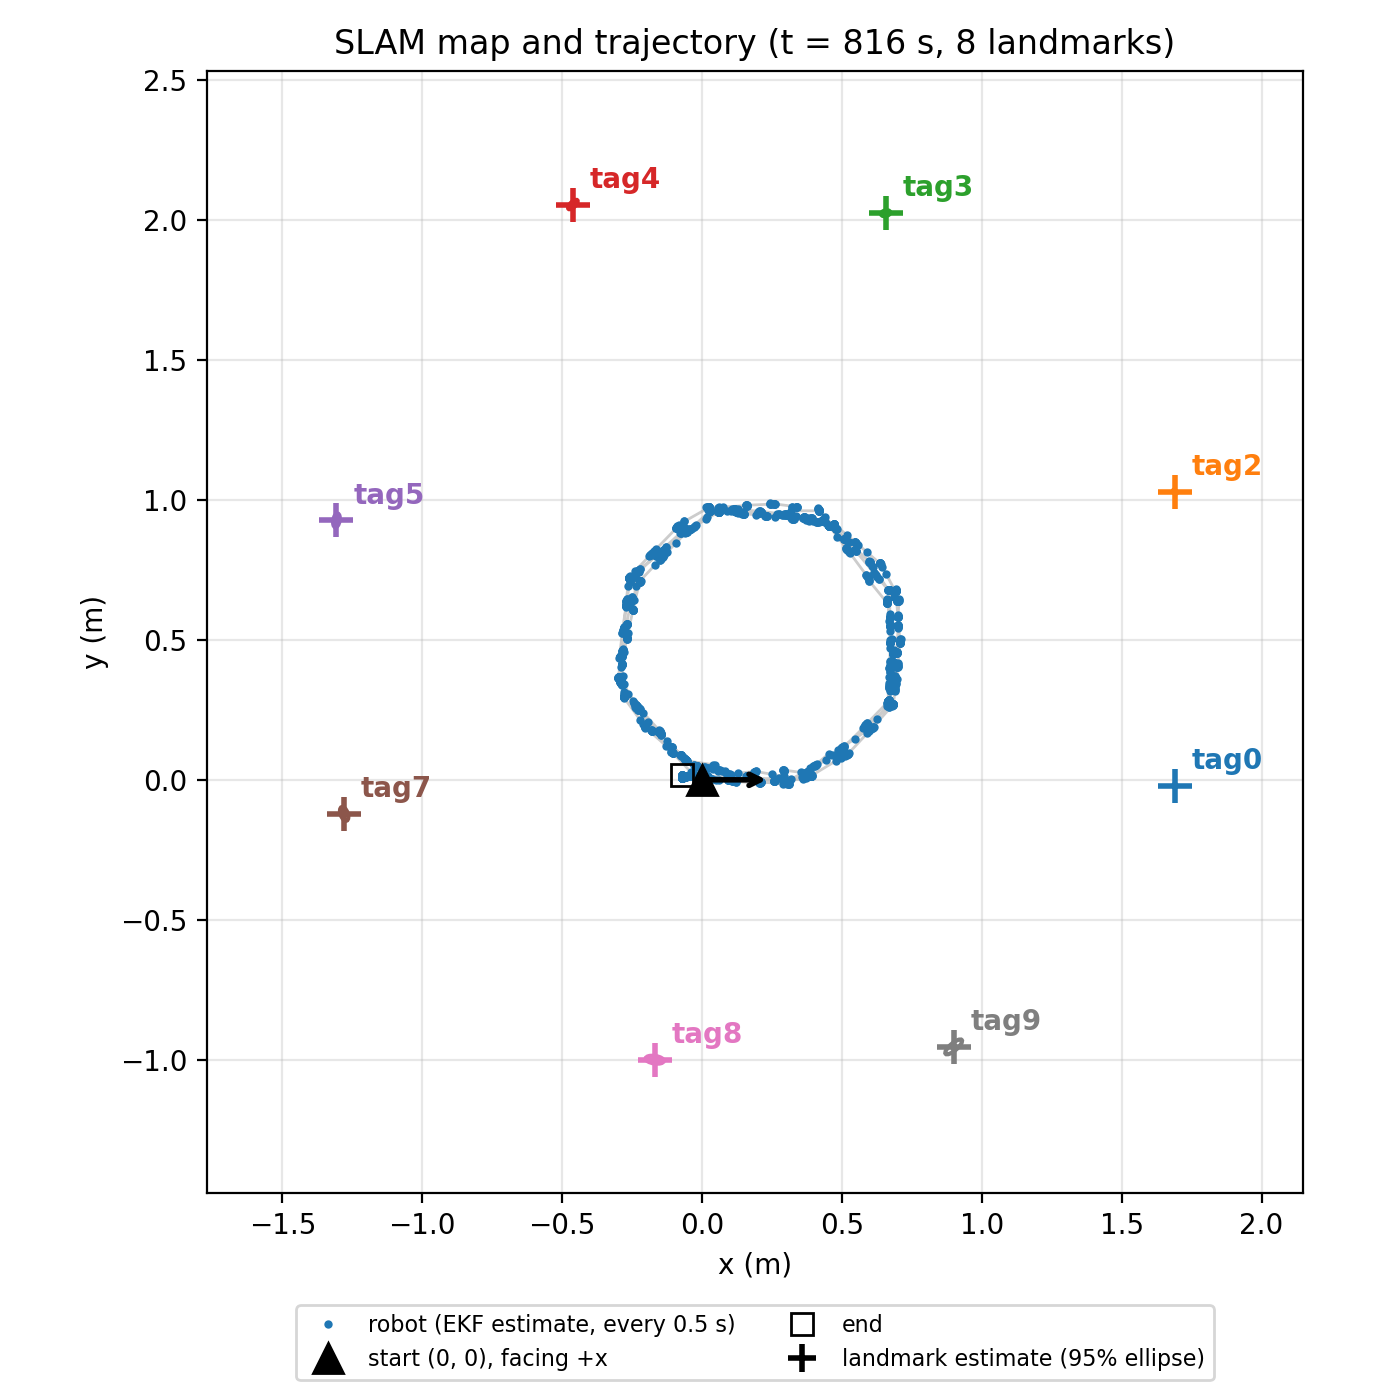
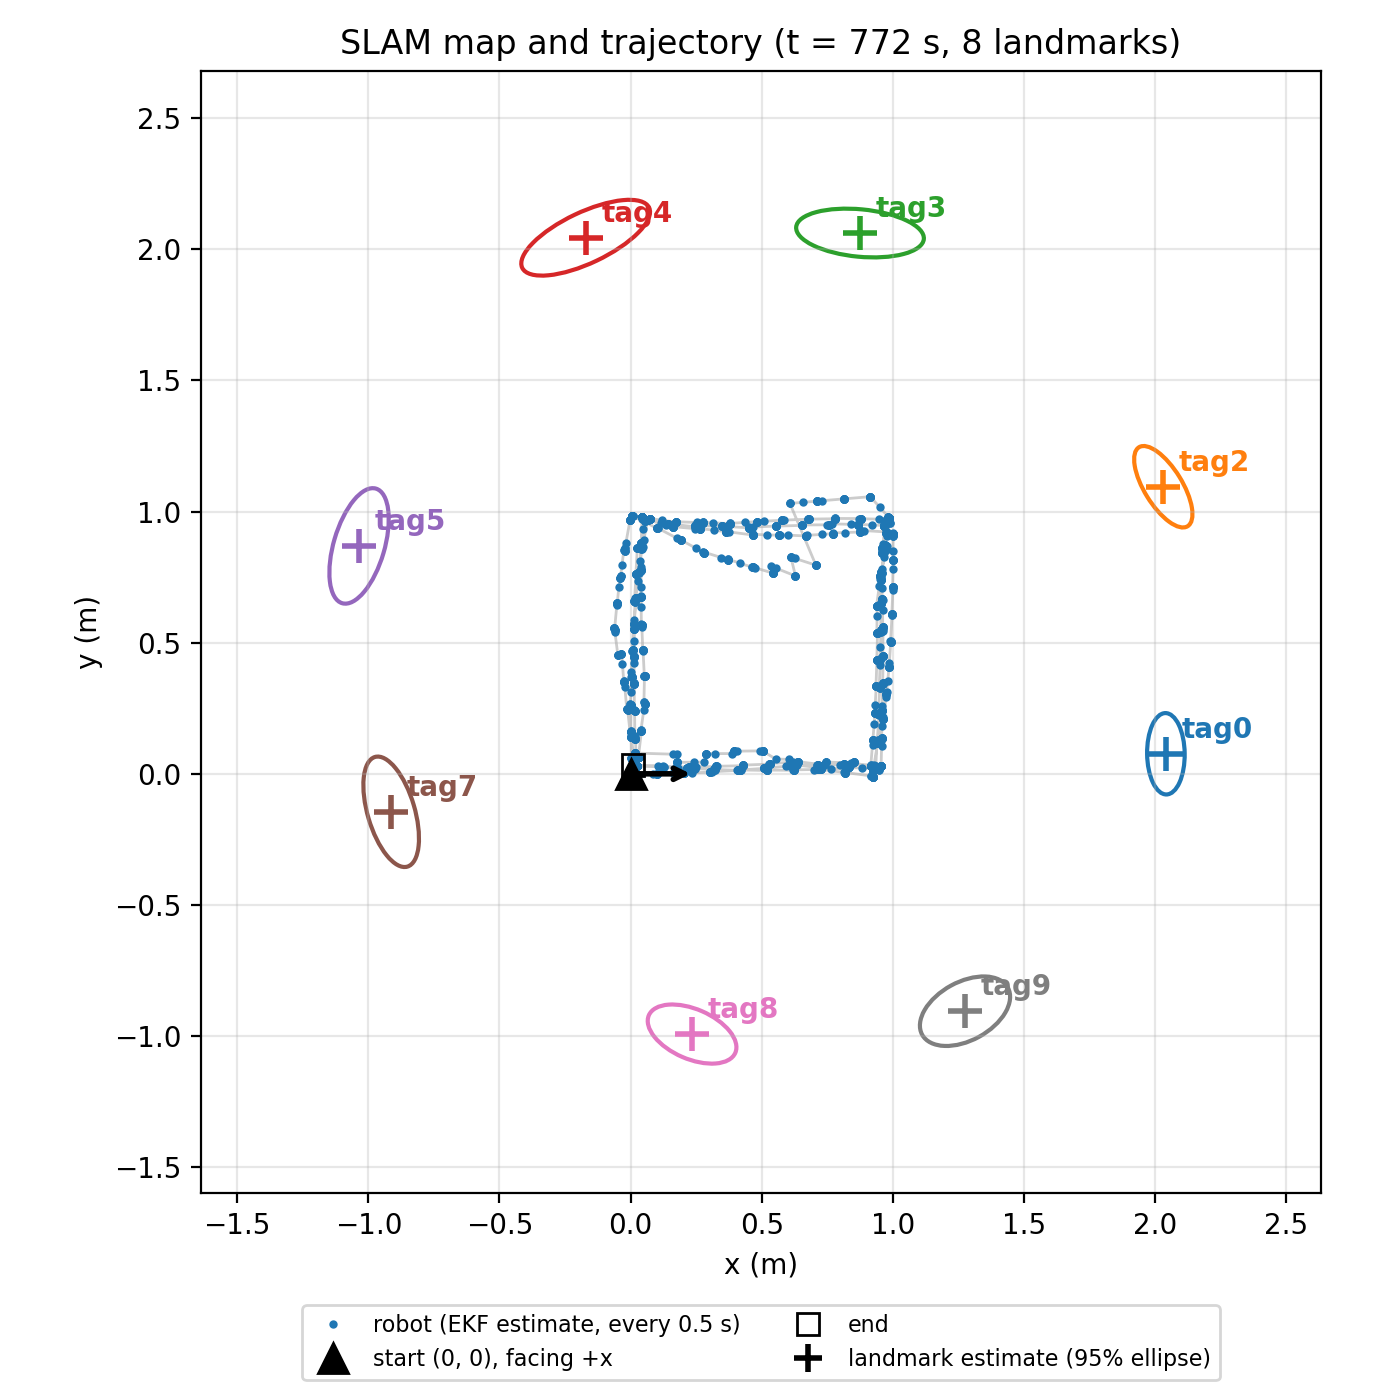
s1*1 *4

diff --git a/test_plot/plot.py b/test_plot/plot.py
@@ -32,13 +32,19 @@ LOGS = os.path.expanduser('~/ros2_ws/src/26fall_cse276a/traj_log')
 CHI2_95 = 5.991                                         # 95% region for 2 DOF
 
 
+def rows(path):
+    """CSV rows, skipping comment lines such as '# lap 1 done, t = 182.02'."""
+    with open(path) as f:
+        return list(csv.DictReader(line for line in f if not line.lstrip().startswith('#')))
+
+
 def load(map_csv, traj_csv):
     snaps = defaultdict(dict)                           # t -> {id: (x, y, 2x2 cov)}
-    for r in csv.DictReader(open(map_csv)):
+    for r in rows(map_csv):
         C = np.array([[float(r['sxx']), float(r['sxy'])], [float(r['sxy']), float(r['syy'])]])
         snaps[float(r['t'])][r['id']] = (float(r['x']), float(r['y']), C)
     traj = np.array([[float(r['t']), float(r['x']), float(r['y']), float(r['theta'])]
-                     for r in csv.DictReader(open(traj_csv))])
+                     for r in rows(traj_csv)])
     return snaps, traj
 
 
